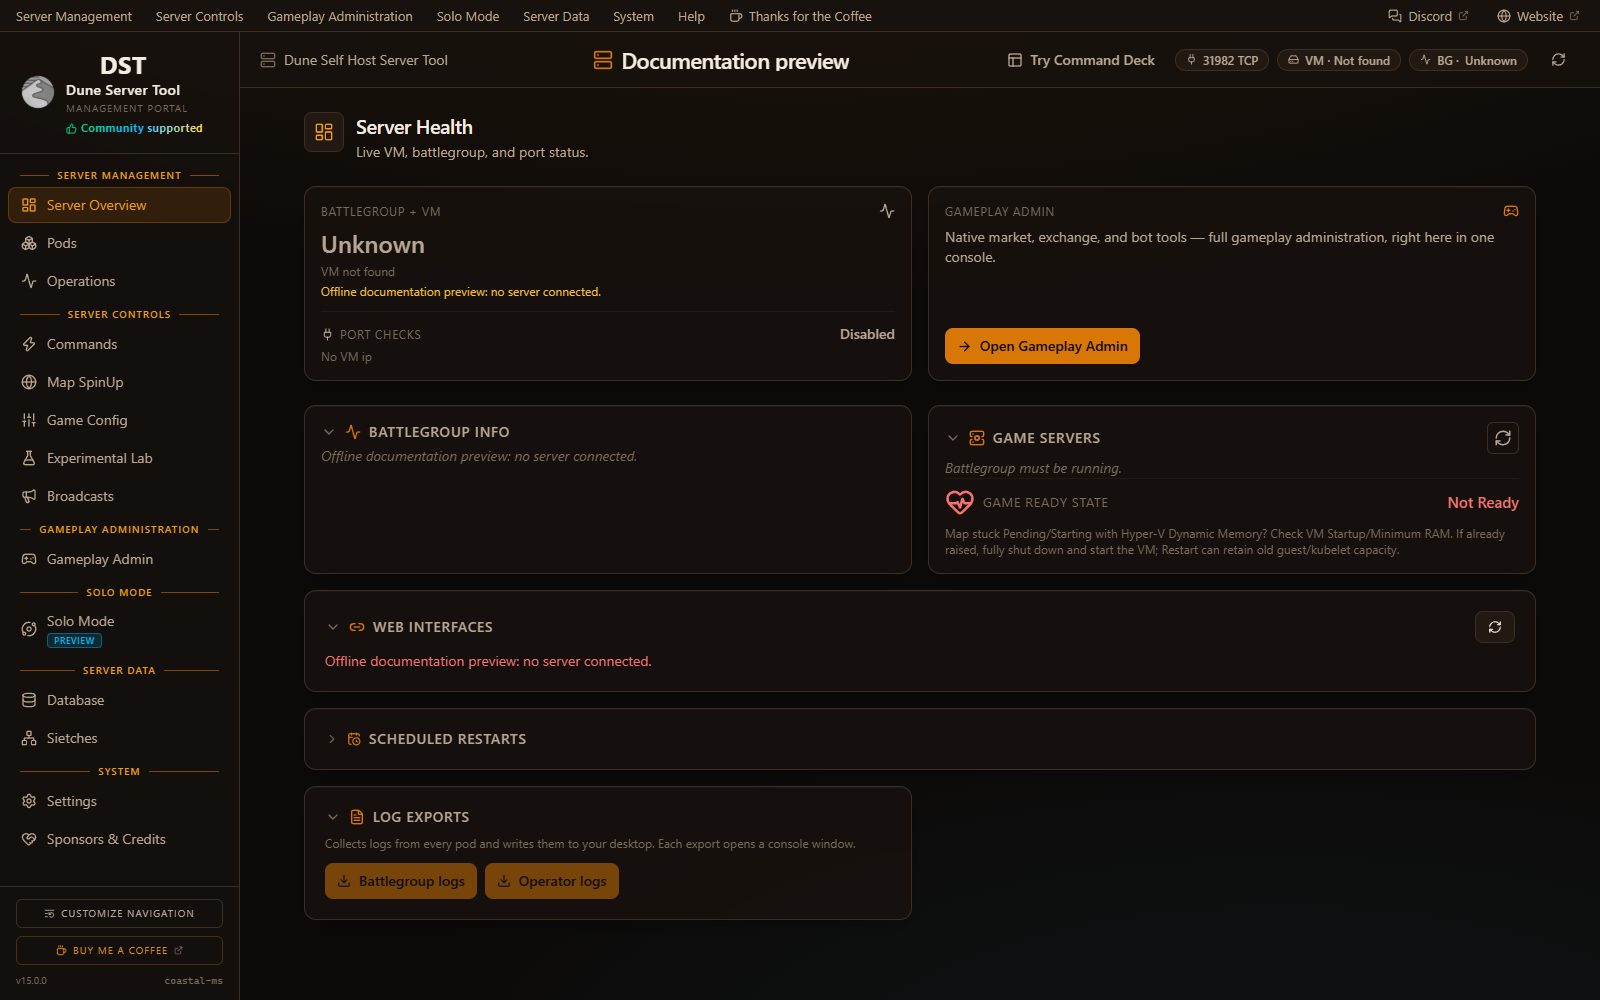
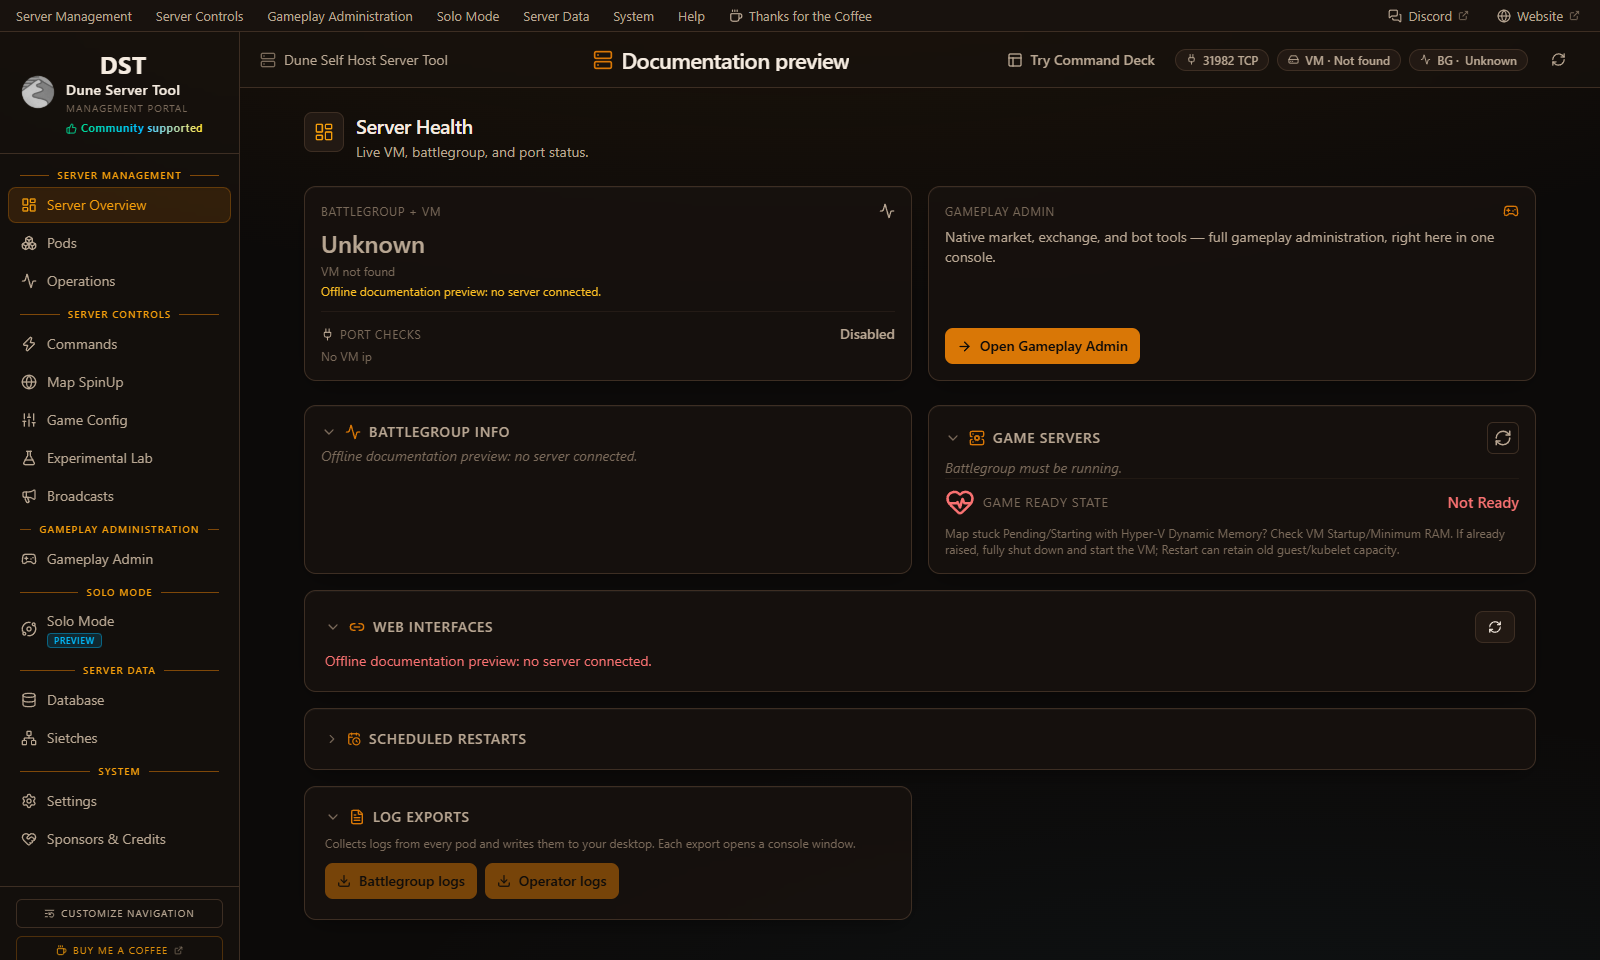
release: assemble v15.0.1 candidate

diff --git a/CHANGELOG.md b/CHANGELOG.md
@@ -13,6 +13,22 @@ here cover everything those tags shipped.
 
 ## [Unreleased]
 
+## [15.0.1] - 2026-09-07
+
+### Added
+
+- Added **Vehicle Lifecycle** to the Vehicles workspace for fleet inspection,
+  integrity and cargo visibility, plus a guarded, reviewable removal queue.
+
+### Changed
+
+- Refreshed the public site, documentation, and screenshots for the v15
+  experience.
+
+### Fixed
+
+- Routed Command Deck Map navigation to the static **DD Atlas**.
+
 ## [15.0.0] - 2026-09-07
 
 ### Added
